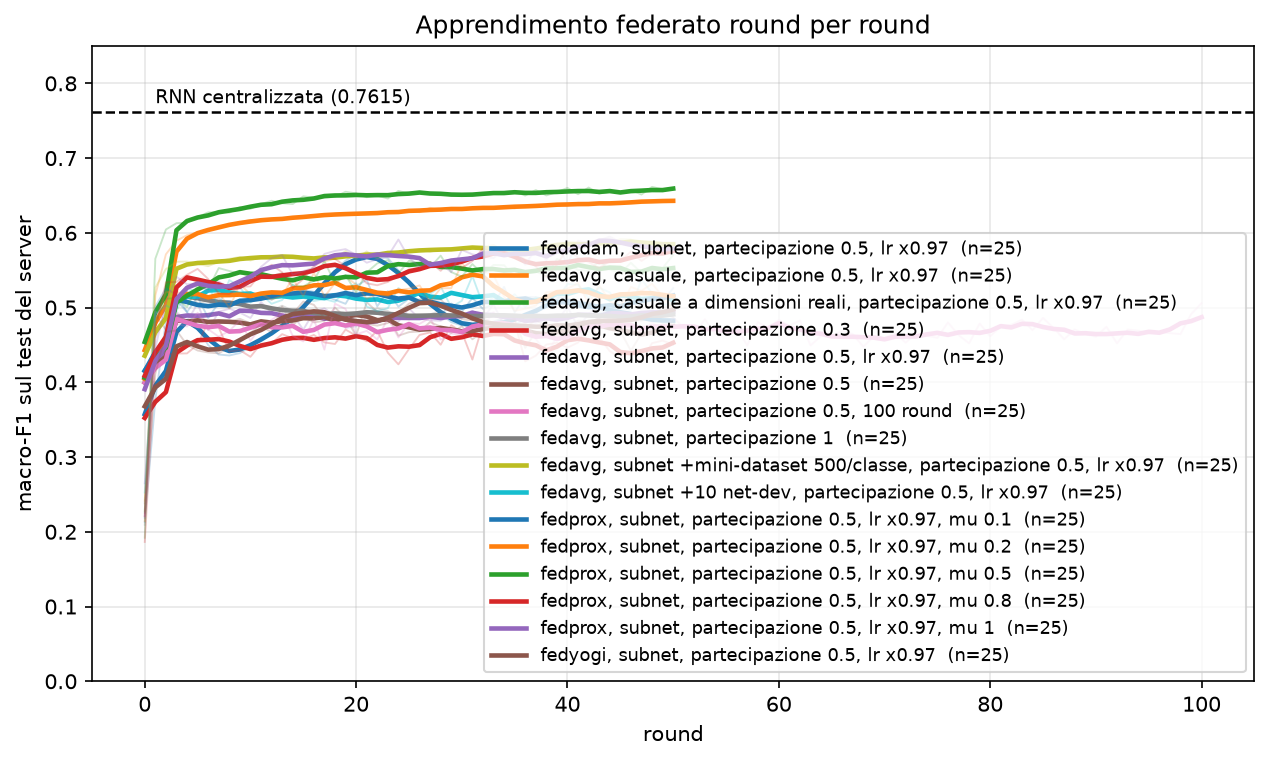
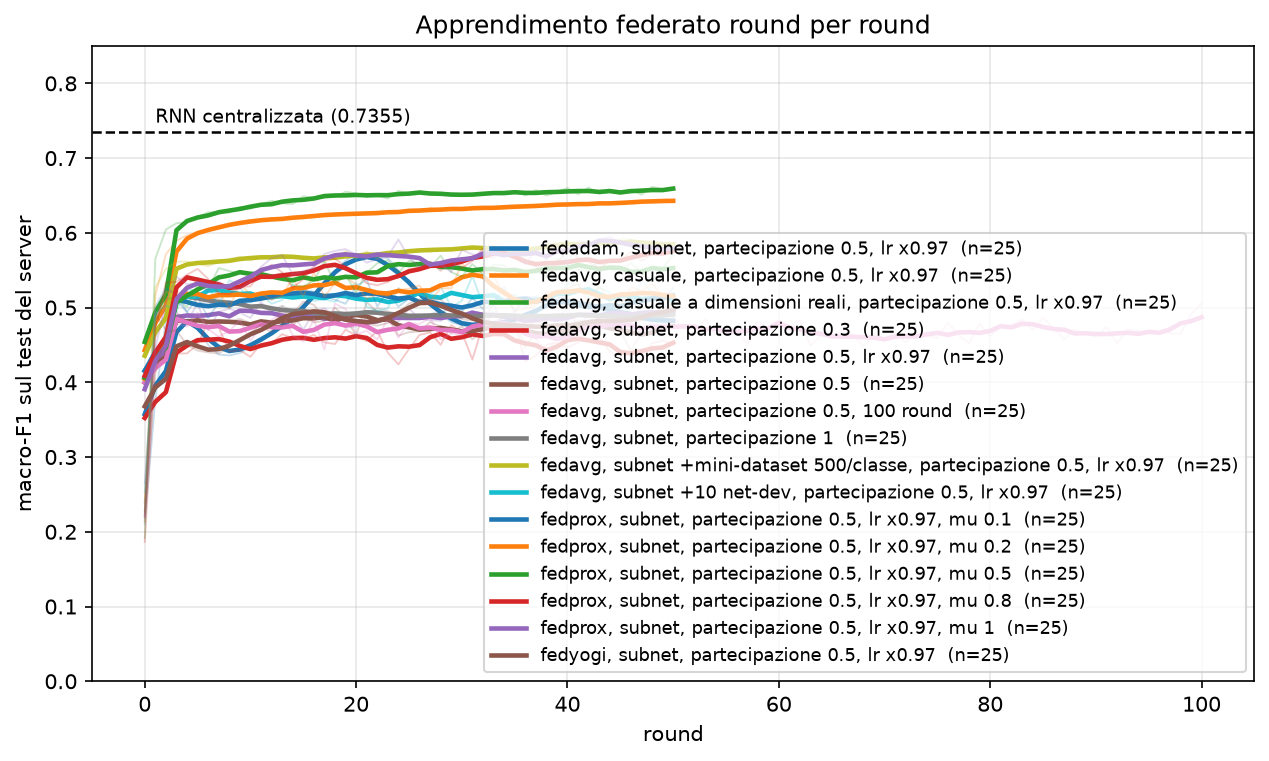
Update: centralized reference trained on the same data as the federation (0.7355)

diff --git a/tools/grafici.py b/tools/grafici.py
@@ -29,7 +29,7 @@ sys.path.insert(0, str(Path(__file__).resolve().parents[1]))
 from fedrnn import config as cfg 
 
 # macro f1-score del test set del modello centralizzato con cui voglio confrontarmi 
-BASELINE_MACRO_F1 = 0.7615 # appare in due figure come riferimento
+BASELINE_MACRO_F1 = 0.7355 # appare in due figure come riferimento
 
 COLORI = {
     "end-device": "#4C72B0",

diff --git a/fedrnn/server_app.py b/fedrnn/server_app.py
@@ -659,6 +659,6 @@ def main(grid: Grid, context: Context) -> None:
     )
     log.info("   salvato in %s", best_model_path.name)
     log.info(
-        "Riferimento: RNN centralizzata con pesi di classe, macro-F1 0.7615 "
+        "Riferimento: RNN centralizzata con pesi di classe, macro-F1 0.7355 "
         "sugli stessi 9.238 indirizzi"
     )

diff --git a/RISULTATI.md b/RISULTATI.md
@@ -8,7 +8,7 @@ I comandi che le hanno prodotte si trovano in [`tools/esperimenti.sh`](tools/esp
 
 ## Confronti
 
-Il riferimento è la RNN centralizzata di base fornita, che ottiene **macro-F1 0.7615** sul test set.
+Il riferimento è la RNN centralizzata, addestrata 25 volte sulle stesse serie di addestramento e validazione della federazione, che ottiene in media **macro-F1 0.7355** sul test set.
 
 Il confronto viene effettuato sullo stesso test set poichè lo split avviene con lo stesso seed (111) e le stesse proporzioni, ottenendo gli stessi conteggi per classe (8,136 end-device, 218 net-device e 884 server).
 
@@ -61,7 +61,7 @@ Nel resto del documento le differenze fra configurazioni sono espresse in **x vo
 | fedadam | 0.5 | 0.97 | — | 50 | 0.5856 | 0.0587 | 9/31 |
 | fedyogi | 0.5 | 0.97 | — | 50 | 0.5782 | 0.0545 | 14/31 |
 | fedavg | 1.0 | — | — | 50 | 0.5249 | **0.0175** | **2/31** |
-| *centralizzata* | | | | | *0.7615* | | |
+| *centralizzata* | | | | | *0.7355* | | |
 
 ![confronto fra le configurazioni](outputs/figure/02_confronto_strategie.png)
 
@@ -115,11 +115,11 @@ Gli indirizzi sono sempre 82,527 e i client sempre 69.
 
 | | consegnato | min-max | divario |
 |---|---|---|---|
-| subnet, la federazione vera | 0.6101 ± 0.0299 | 0.5174-0.6515 | 0.1514 |
-| subnet + 425 net-device condivisi | 0.6141 ± 0.0227 | 0.5366-0.6499 | 0.1474 |
-| subnet + insieme condiviso 500 per classe | 0.5904 ± 0.0190 | 0.5600-0.6220 | 0.1711 |
-| **casuale a dimensioni reali** | **0.6767 ± 0.0069** | 0.6609-0.6928 | **0.0848** |
-| casuale a blocchi uguali | 0.6440 ± 0.0058 | 0.6325-0.6526 | 0.1175 |
+| subnet, la federazione vera | 0.6101 ± 0.0299 | 0.5174-0.6515 | 0.1253 |
+| subnet + 425 net-device condivisi | 0.6141 ± 0.0227 | 0.5366-0.6499 | 0.1214 |
+| subnet + insieme condiviso 500 per classe | 0.5904 ± 0.0190 | 0.5600-0.6220 | 0.1451 |
+| **casuale a dimensioni reali** | **0.6767 ± 0.0069** | 0.6609-0.6928 | **0.0588** |
+| casuale a blocchi uguali | 0.6440 ± 0.0058 | 0.6325-0.6526 | 0.0915 |
 
 Un paio di note sulla suddivisione casuale (usano gli stessi indirizzi e numero di client):
 * **casuale a blocchi uguali**: gli indirizzi vengono mescolati e divisi in 69 pezzi identici
@@ -148,9 +148,9 @@ La prima divisione dei dati migliora il risultato mentre la seconda divisione pe
 
 La spiegazione plausibile è che con pochi client grossi la media pesata di FedAvg sia dominata da aggiornamenti calcolati su molti dati, mentre 34 client da 1,200 indirizzi producono 34 aggiornamenti rumorosi da mediare fra loro.
 
-Quindi dei **0.1514** di divario rispetto al modello centralizzato, che è quello di FedAvg fissato in questa sezione:
-* **circa il 44% (0.0666)** dipende da come le classi sono distribuite fra le subnet
-* il restante **56% (0.0848)** è il costo di federare in sé, che resta anche con la partizione migliore
+Quindi dei **0.1253** di divario rispetto al modello centralizzato, che è quello di FedAvg fissato in questa sezione:
+* **circa il 53% (0.0666)** dipende da come le classi sono distribuite fra le subnet
+* il restante **47% (0.0588)** è il costo di federare in sé, che resta anche con la partizione migliore
 
 ## Prestare dati fra i client non aiuta
 
@@ -216,7 +216,7 @@ Il parametro pesa quanto un client viene penalizzato man mano che i suoi pesi si
 | **0.8** | **0.6310 ± 0.0215** | 0.0566 | 5/31 |
 | 1.0 | 0.6263 ± 0.0254 | 0.0504 | 2/31 |
 
-A mu 0.8 il modello consegnato fa **0.6310** e porta il divario col centralizzato da 0.1514 a **0.1305**, con 2.83 volte l'errore di vantaggio su FedAvg. Fra 0.8 e 1.0 si equivalgono. Contro il default 0.1 si distinguono solo 0.8 e 1.0 (2.90 e 2.32 volte l'errore), mentre 0.2 e 0.5 si fermano a 1.47 e 1.73, sotto la soglia di 2.
+A mu 0.8 il modello consegnato fa **0.6310** e porta il divario col centralizzato da 0.1253 a **0.1045**, con 2.83 volte l'errore di vantaggio su FedAvg. Fra 0.8 e 1.0 si equivalgono. Contro il default 0.1 si distinguono solo 0.8 e 1.0 (2.90 e 2.32 volte l'errore), mentre 0.2 e 0.5 si fermano a 1.47 e 1.73, sotto la soglia di 2.
 
 Il guadagno cade quasi tutto su una classe sola:
 
@@ -234,17 +234,17 @@ F1 per classe:
 
 | classe | centralizzata | subnet (fedavg) | subnet (fedprox mu 0.8) | + net-device | + condiviso | dimensioni reali |
 |---|---|---|---|---|---|---|
-| end-device | 0.9642 | 0.9423 | 0.9446 | 0.9430 | 0.8924 | 0.9449 |
-| net-device | 0.6304 | 0.4969 | 0.4881 | 0.4976 | 0.5104 | **0.5851** |
-| server | 0.6900 | 0.3911 | **0.4601** | 0.4016 | 0.3683 | **0.5000** |
+| end-device | 0.9602 | 0.9423 | 0.9446 | 0.9430 | 0.8924 | 0.9449 |
+| net-device | 0.5885 | 0.4969 | 0.4881 | 0.4976 | 0.5104 | **0.5851** |
+| server | 0.6577 | 0.3911 | **0.4601** | 0.4016 | 0.3683 | **0.5000** |
 
 Sulla federazione vera, con la configurazione consegnata (fedprox mu 0.8), il divario si distribuisce così:
 
 | classe | perdita | quota del divario |
 |---|---|---|
-| end-device | 0.0196 | 5% |
-| net-device | 0.1423 | 36% |
-| **server** | **0.2299** | **59%** |
+| end-device | 0.0155 | 5% |
+| net-device | 0.1003 | 32% |
+| **server** | **0.1976** | **63%** |
 
 La classe dei `net-device`, quella che all'apparenza sembrava il problema, **non è quella che pesa di più sul divario**, perché i server sono schiacciati da migliaia di end-device all'interno di ciascun client (nonostante i server siano presenti in 61 client di 69) e il peso di classe 3.64 non basta a farli notare. Prestare server però non risolve.
 
@@ -303,16 +303,16 @@ Gli shard vengono sovrascritti a ogni rigenerazione, quindi in `shards/` c'è se
 
 | | macro-F1 |
 |---|---|
-| RNN centralizzata baseline | 0.7615 |
+| RNN centralizzata baseline | 0.7355 |
 | RNN federata, migliore configurazione | **0.6310** |
 
 La configurazione migliore è **FedProx con proximal-mu 0.8, metà dei client per round, decadimento 0.97, cinquanta round**.
 
-Il costo del federated learning su questo problema è di **0.1305** sulla macro-f1, e si distribuisce quasi sei decimi sui `server`, poco più di un terzo sui `net-device` e quasi niente sugli end-device.
+Il costo del federated learning su questo problema è di **0.1045** sulla macro-f1, e si distribuisce poco più di sei decimi sui `server`, circa un terzo sui `net-device` e quasi niente sugli end-device.
 
 Conclusioni elencate:
 
-1. **Il divario dipende da come le classi sono distribuite, non da quanto sono grandi i client.** Sparpagliando le classi si recupera il 44% del divario di FedAvg mentre pareggiando anche le dimensioni si peggiora.
+1. **Il divario dipende da come le classi sono distribuite, non da quanto sono grandi i client.** Sparpagliando le classi si recupera il 53% del divario di FedAvg mentre pareggiando anche le dimensioni si peggiora.
 2. **I pesi di classe non bastano, e prestare dati fra i client non aiuta.** Il peso 15 assegnato ai net-device funziona dentro un client che i net-device ce li ha, e portarli a dieci in tutti i client non cambia niente. Dare a tutti lo stesso insieme bilanciato fa addirittura scendere il consegnato a 0.5904, perché quell'insieme domina i conteggi aggregati e schiaccia i pesi di classe da 15 a 1.58. Il problema non è quanti esemplari ha ciascun client, è che dentro ogni client le proporzioni fra le classi non somigliano a quelle globali.
 3. **La federazione reale è imprevedibile, non solo peggiore.** FedAvg consegna fra 0.52 e 0.65 a seconda della run, contro un intervallo di due centesimi con i dati mescolati. Con FedProx e mu=0.8 invece l'intervallo si stringe a 0.59-0.66 e la deviazione standard scende da 0.0299 a 0.0215.
 4. **Trattenere i client vicino al modello globale è la strategia più efficace fra quelle provate, mentre adattare il passo lato server non serve.** FedAdam e FedYogi stanno entrambe sotto FedAvg e sono indistinguibili fra loro. Portare `proximal-mu` da 0.1 a 0.8 vale +0.0275 sul consegnato e sposta i `server` di poco più di quattro centesimi, che è la classe su cui nessun altro intervento aveva ottenuto niente. È arrivata dopo le prime 250 esecuzioni.

diff --git a/README.md b/README.md
@@ -17,7 +17,7 @@ La presenza dei dati di test sul server è solo per scopo "educativo" per capire
 
 | | macro-F1 |
 |---|---|
-| RNN centralizzata (progetto di partenza) | 0.7615 |
+| RNN centralizzata (stessi dati della federazione) | 0.7355 |
 | RNN federata, migliore configurazione | 0.6310 |
 
 ## Come avviarlo
@@ -138,11 +138,11 @@ outputs/               storici delle run e figure
 
 All'interno del file **[RISULTATI.md](RISULTATI.md)** si trovano **400 esecuzioni complete, 25 per ogni configurazione**, con il confronto tra strategie di aggregazione, cinque modi diversi di dividere gli indirizzi fra i client, e l'analisi di dove il modello federato peggiora rispetto a quello centralizzato.
 
-**In breve, la configurazione migliore è FedProx con proximal-mu = 0.8, fraction-train = 0.5 e lr-decay = 0.97**, con f1-score 0.6310 contro lo 0.7615 del centralizzato. Il divario è dovuto per quasi tre quinti alla classe **server** e per poco più di un terzo ai **net-device**. La differenza fra `fraction-train` 0.3 e 0.5 non esiste e il decadimento del learning rate aiuta invece di peggiorare.
+**In breve, la configurazione migliore è FedProx con proximal-mu = 0.8, fraction-train = 0.5 e lr-decay = 0.97**, con f1-score 0.6310 contro lo 0.7355 del centralizzato. Il divario è dovuto per poco più di tre quinti alla classe **server** e per circa un terzo ai **net-device**. La differenza fra `fraction-train` 0.3 e 0.5 non esiste e il decadimento del learning rate aiuta invece di peggiorare.
 
 La prova su `proximal-mu` è stata effettuata dopo le prime 250 esecuzioni, per utilizzare una strategia dedicata ai dati non-IID, cambiando il valore di mu. Portarlo da 0.1 a 0.8 sposta di quattro centesimi la F1 dei `server`.
 
-**Il risultato principale** è che il divario dipende da **come le classi sono distribuite fra i client**, e non da quanto i client sono grandi. Mescolando gli indirizzi fra i 69 client ma tenendo le dimensioni vere delle subnet si recupera il 44% del divario di FedAvg; se invece si rendono i client tutti della stessa dimensione il risultato peggiora.
+**Il risultato principale** è che il divario dipende da **come le classi sono distribuite fra i client**, e non da quanto i client sono grandi. Mescolando gli indirizzi fra i 69 client ma tenendo le dimensioni vere delle subnet si recupera il 53% del divario di FedAvg; se invece si rendono i client tutti della stessa dimensione il risultato peggiora.
 
 Da qua si deriva il perchè i `server` sono la classe più penalizzata pur essendo presenti in 61 client su 69, ovvero che non conta in quanti client una classe compare ma in che proporzione compare dentro ciascuno.
 
